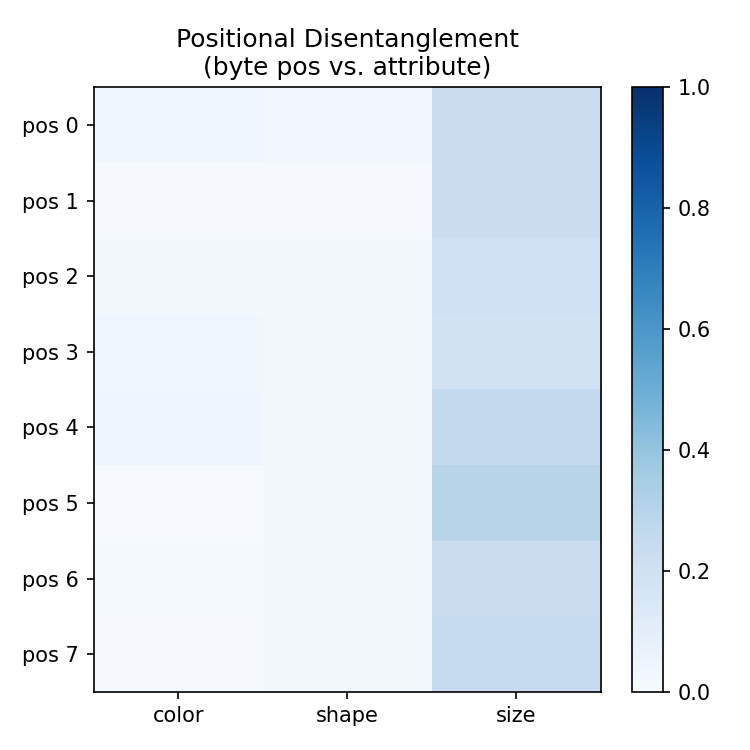
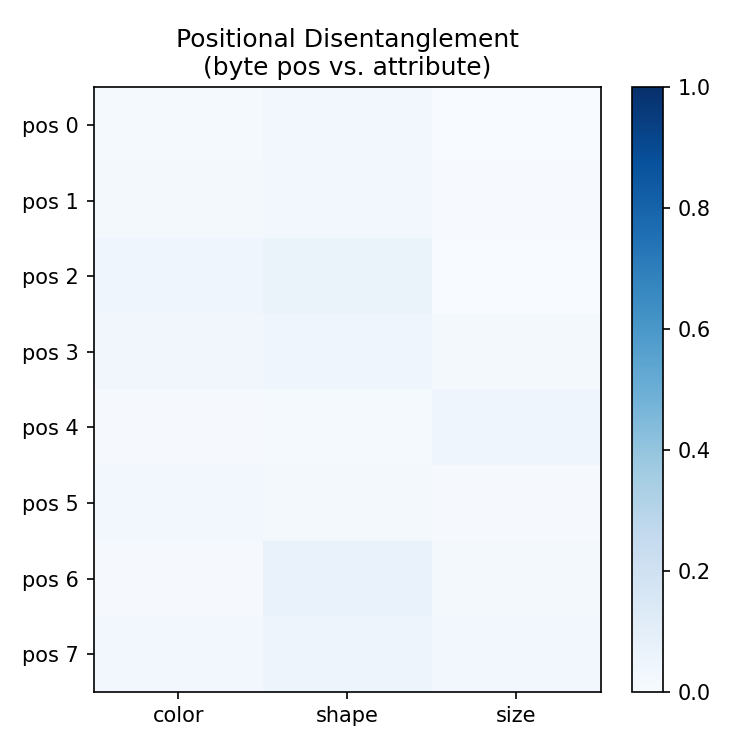
Fixed some issues

Changed region(s): [[0.552, 0.092, 0.7973, 0.92]]

diff --git a/run_experiment.py b/run_experiment.py
@@ -11,6 +11,7 @@ import argparse
 import os
 import sys
 import pickle
+import random
 
 import torch
 import numpy as np
@@ -37,8 +38,8 @@ from torch.utils.data import DataLoader
 # ---------------------------------------------------------------------------
 
 def build_dataloaders(cfg, batch_size):
-    train_ds = SignalingGameDataset(cfg.env)
-    val_ds   = SignalingGameDataset(EnvConfig(seed=cfg.env.seed + 99))
+    train_ds = SignalingGameDataset(cfg.env, split="train")
+    val_ds   = SignalingGameDataset(cfg.env, split="val")
     kw = dict(batch_size=batch_size, collate_fn=collate_trials, num_workers=0)
     return DataLoader(train_ds, **kw), DataLoader(val_ds, **kw)
 
@@ -63,22 +64,28 @@ def build_agents(cfg):
 
 
 def collect_all_messages(sender, cfg, device):
-    """Run sender on every object in the world; return objects + messages."""
+    """Run sender on every object in the world; return objects + messages + logits."""
     pool = all_objects(cfg.env.n_colors, cfg.env.n_shapes, cfg.env.n_sizes)
-    objects_tuples, messages_bytes = [], []
+    objects_tuples, messages_bytes, messages_logits = [], [], []
     sender.eval()
     with torch.no_grad():
         for obj in pool:
             attrs = torch.tensor([obj.to_vector()], dtype=torch.long, device=device)
             out = sender(attrs)
             msg = out["message_bytes"][0].cpu().tolist()
+            logits = out["logits"][0].cpu()
+            
             eos = cfg.agent.eos_byte
             if eos in msg:
-                msg = msg[: msg.index(eos)]
+                idx = msg.index(eos)
+                msg = msg[:idx]
+                logits = logits[:idx]
+                
             objects_tuples.append(obj.to_vector())
             messages_bytes.append(msg)
+            messages_logits.append(logits)
     sender.train()
-    return pool, objects_tuples, messages_bytes
+    return pool, objects_tuples, messages_bytes, messages_logits
 
 
 # ---------------------------------------------------------------------------
@@ -204,6 +211,13 @@ def main():
     else:
         cfg.training.n_steps = args.steps
 
+    # Set global seeds
+    torch.manual_seed(cfg.training.seed)
+    np.random.seed(cfg.training.seed)
+    random.seed(cfg.training.seed)
+    if torch.cuda.is_available():
+        torch.cuda.manual_seed_all(cfg.training.seed)
+
     device = torch.device("cuda" if torch.cuda.is_available() else
                           "mps"  if torch.backends.mps.is_available() else "cpu")
     print(f"Device        : {device}")
@@ -236,7 +250,7 @@ def main():
         receiver.load_state_dict(ckpt["receiver"])
         print(f"  Loaded best checkpoint (step={ckpt['step']}, val_acc={ckpt['val_acc']:.3f})")
 
-    pool, objects_tuples, messages_bytes = collect_all_messages(sender, cfg, device)
+    pool, objects_tuples, messages_bytes, messages_logits = collect_all_messages(sender, cfg, device)
     lengths = [len(m) for m in messages_bytes]
     unique  = len(set(tuple(m) for m in messages_bytes))
     print(f"  Total objects   : {len(pool)}")
@@ -257,7 +271,7 @@ def main():
         key = f"attr{attr_idx}_max_disentanglement"
         print(f"  Max positional disentanglement [{attr_name}]: {comp[key]:.4f}")
 
-    vocab = collect_vocabulary(objects_tuples, messages_bytes, seg_cfg=cfg.segmentation)
+    vocab = collect_vocabulary(objects_tuples, messages_bytes, seg_cfg=cfg.segmentation, logits_list=messages_logits)
     print_vocabulary_report(vocab)
     print_example_messages(pool, messages_bytes, n=min(20, len(pool)))
 

diff --git a/emergent_comm/models/decoder.py b/emergent_comm/models/decoder.py
@@ -90,7 +90,7 @@ class CharacterDecoder(nn.Module):
         temperature: float = 1.0,
         max_len: int | None = None,
         fixed_length: bool = True,
-    ) -> tuple[torch.Tensor, torch.Tensor]:
+    ) -> tuple[torch.Tensor, torch.Tensor, torch.Tensor]:
         """
         Autoregressive generation of one word's byte sequence.
 
@@ -101,6 +101,7 @@ class CharacterDecoder(nn.Module):
         Returns:
             byte_ids  : [B, max_len]         — generated bytes (excl. W_TOKEN prefix)
             log_probs : [B, max_len]         — log-prob of each sampled byte
+            logits    : [B, max_len, vocab]  — raw logits at each step
         """
         max_len = max_len or self.cfg.max_word_len
         B = predictive_emb.size(0)
@@ -109,17 +110,22 @@ class CharacterDecoder(nn.Module):
         # Start with W_TOKEN prefix
         generated = torch.full((B, 1), W_TOKEN, dtype=torch.long, device=device)
         log_probs = []
+        all_logits = []
         done = torch.zeros(B, dtype=torch.bool, device=device)
 
         for step in range(max_len):
             logits = self.forward(predictive_emb, generated)  # [B, t, vocab]
-            next_logits = logits[:, -1, :] / temperature       # [B, vocab]
+            next_logits = logits[:, -1, :]                     # [B, vocab]
+            all_logits.append(next_logits.detach())            # Store raw logits for analysis
+
+            scaled_logits = next_logits / temperature
 
             if fixed_length:
                 # Mask EOS so the sender cannot emit it mid-message
-                next_logits[:, EOS_TOKEN] = float("-inf")
+                scaled_logits = scaled_logits.clone()
+                scaled_logits[:, EOS_TOKEN] = float("-inf")
 
-            probs = F.softmax(next_logits, dim=-1)
+            probs = F.softmax(scaled_logits, dim=-1)
             next_byte = torch.multinomial(probs, num_samples=1).squeeze(-1)  # [B]
 
             if not fixed_length:
@@ -139,4 +145,8 @@ class CharacterDecoder(nn.Module):
                     break
 
         # Strip the leading W_TOKEN
-        return generated[:, 1:], torch.stack(log_probs, dim=1)
+        return (
+            generated[:, 1:],
+            torch.stack(log_probs, dim=1),
+            torch.stack(all_logits, dim=1)
+        )

diff --git a/emergent_comm/environment/world.py b/emergent_comm/environment/world.py
@@ -25,10 +25,23 @@ class SignalingGameDataset(IterableDataset):
         target_idx     : LongTensor []            — index of target in candidates
     """
 
-    def __init__(self, cfg: EnvConfig):
+    def __init__(self, cfg: EnvConfig, split: str = "train", split_ratio: float = 0.8):
         self.cfg = cfg
-        self.object_pool = all_objects(cfg.n_colors, cfg.n_shapes, cfg.n_sizes)
-        self.rng = random.Random(cfg.seed)
+        all_objs = all_objects(cfg.n_colors, cfg.n_shapes, cfg.n_sizes)
+        
+        # Partition the object pool based on the seed to ensure consistent splits
+        rng = random.Random(cfg.seed)
+        rng.shuffle(all_objs)
+        
+        split_idx = int(len(all_objs) * split_ratio)
+        if split == "train":
+            self.object_pool = all_objs[:split_idx]
+        elif split == "val":
+            self.object_pool = all_objs[split_idx:]
+        else:
+            self.object_pool = all_objs
+            
+        self.rng = random.Random(cfg.seed + (1 if split == "val" else 0))
 
     def __iter__(self) -> Iterator[dict]:
         while True:

diff --git a/emergent_comm/evaluation/vocabulary.py b/emergent_comm/evaluation/vocabulary.py
@@ -78,9 +78,16 @@ def collect_vocabulary(
     # Zipf fit: rank * frequency should be roughly constant
     ranks = list(range(1, min(vocab_size + 1, 101)))
     sorted_freqs = [f for _, f in freq.most_common(100)]
-    zipf_coeff = float(np.corrcoef(np.log(ranks[:len(sorted_freqs)]),
-                                    np.log(np.array(sorted_freqs) + 1))[0, 1]) if len(sorted_freqs) > 1 else 0.0
-
+    
+    zipf_coeff = 0.0
+    if len(sorted_freqs) > 1:
+        log_ranks = np.log(ranks[:len(sorted_freqs)])
+        log_freqs = np.log(np.array(sorted_freqs) + 1e-9) # Use small epsilon
+        if np.var(log_freqs) > 1e-12:
+            zipf_coeff = float(np.corrcoef(log_ranks, log_freqs)[0, 1])
+            if np.isnan(zipf_coeff):
+                zipf_coeff = 0.0
+    
     # Attribute alignment: for each top word, which attribute value is most associated?
     top_words = freq.most_common(20)
     word_attribute_alignment = {}

diff --git a/emergent_comm/training/trainer.py b/emergent_comm/training/trainer.py
@@ -111,11 +111,9 @@ class EmergentCommTrainer:
         )
 
         # Entropy regularisation: penalise low-entropy (repetitive) sender distributions.
-        # sender_log_probs are log P(byte_t | context); use them to compute mean entropy.
+        # We use the logits to compute the true Shannon entropy of the policy.
         # Higher entropy = more diverse messages = avoids mode collapse.
-        byte_probs = sender_log_probs.exp()                          # [B, msg_len]
-        entropy_bonus = -(byte_probs * sender_log_probs).mean()      # mean negative entropy
-        e_loss = -entropy_bonus                                       # minimise → maximise entropy
+        e_loss = sender_entropy_loss(sender_out["logits"])
 
         total_loss = s_loss + r_loss + self.cfg.training.entropy_coeff * e_loss
 

diff --git a/emergent_comm/agents/sender.py b/emergent_comm/agents/sender.py
@@ -107,7 +107,7 @@ class Sender(nn.Module):
             result["logits"] = logits
         else:
             # Autoregressive inference path (fixed-length to prevent EOS collapse)
-            msg_bytes, log_probs = self.decoder.generate(
+            msg_bytes, log_probs, logits = self.decoder.generate(
                 pred_emb,
                 temperature=self.agent_cfg.temperature,
                 max_len=self.agent_cfg.max_message_len,
@@ -115,5 +115,6 @@ class Sender(nn.Module):
             )
             result["message_bytes"] = msg_bytes
             result["log_probs"] = log_probs
+            result["logits"] = logits
 
         return result

diff --git a/emergent_comm/models/encoder.py b/emergent_comm/models/encoder.py
@@ -68,7 +68,11 @@ class CharacterEncoder(nn.Module):
             batch_first=True,
             norm_first=True,
         )
-        self.transformer = nn.TransformerEncoder(encoder_layer, num_layers=cfg.n_layers)
+        self.transformer = nn.TransformerEncoder(
+            encoder_layer,
+            num_layers=cfg.n_layers,
+            enable_nested_tensor=False,
+        )
 
         # Project from character dim to backbone dim
         self.proj = nn.Linear(cfg.d_model, d_backbone)

diff --git a/emergent_comm/evaluation/compositionality.py b/emergent_comm/evaluation/compositionality.py
@@ -92,6 +92,8 @@ def topographic_similarity(
         return 0.0  # degenerate case
 
     corr, _ = spearmanr(attr_dists, msg_dists)
+    if np.isnan(corr):
+        return 0.0
     return float(corr)
 
 
